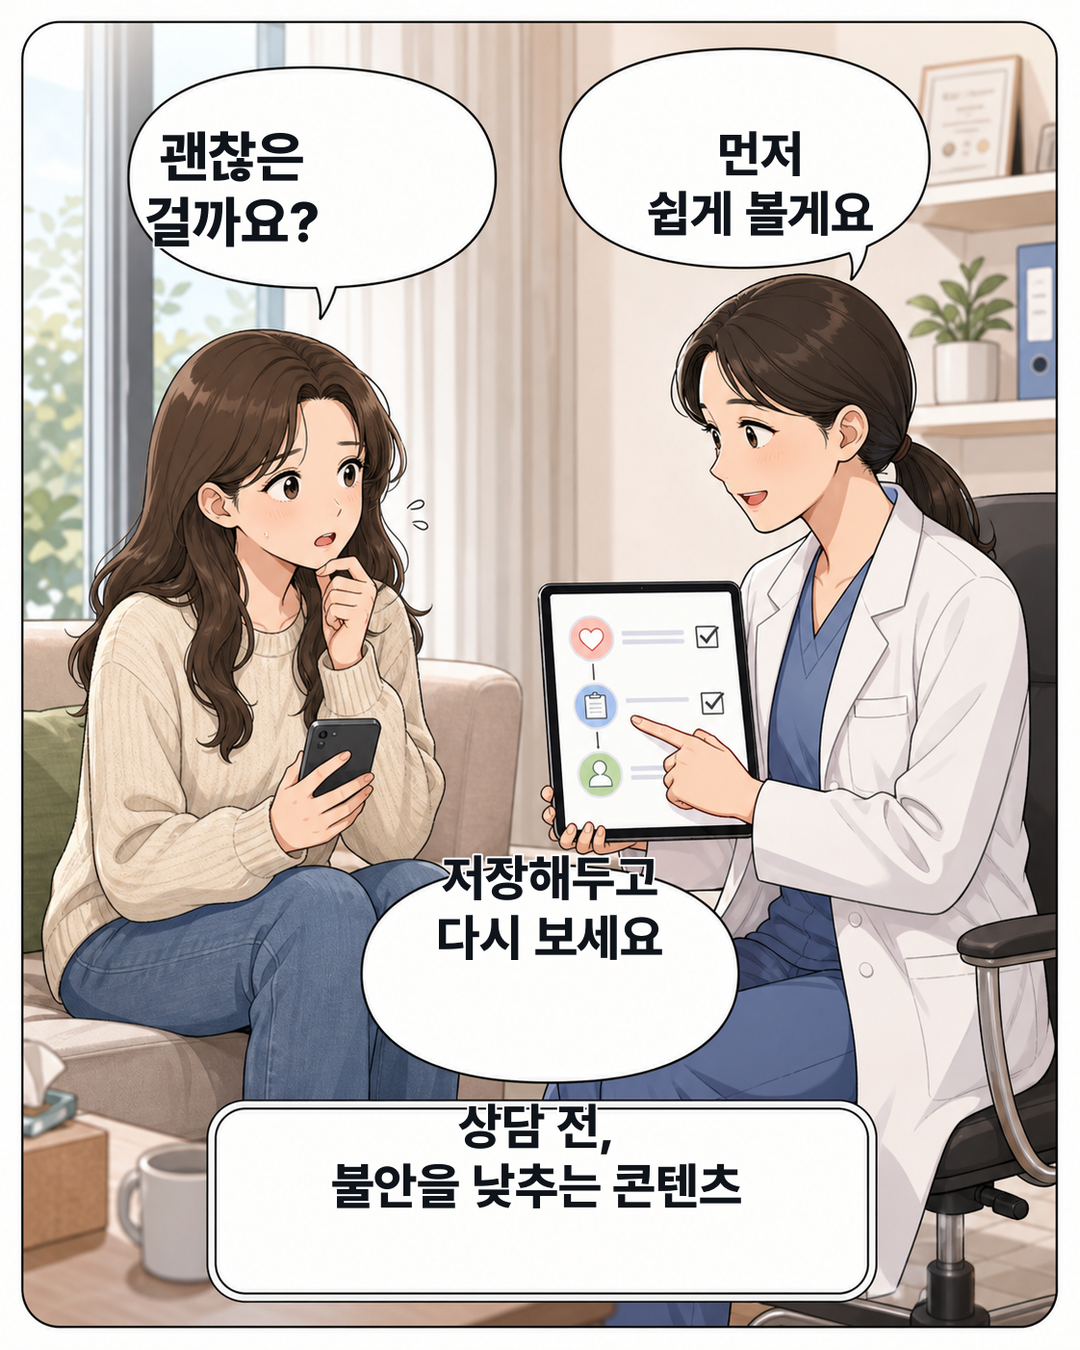
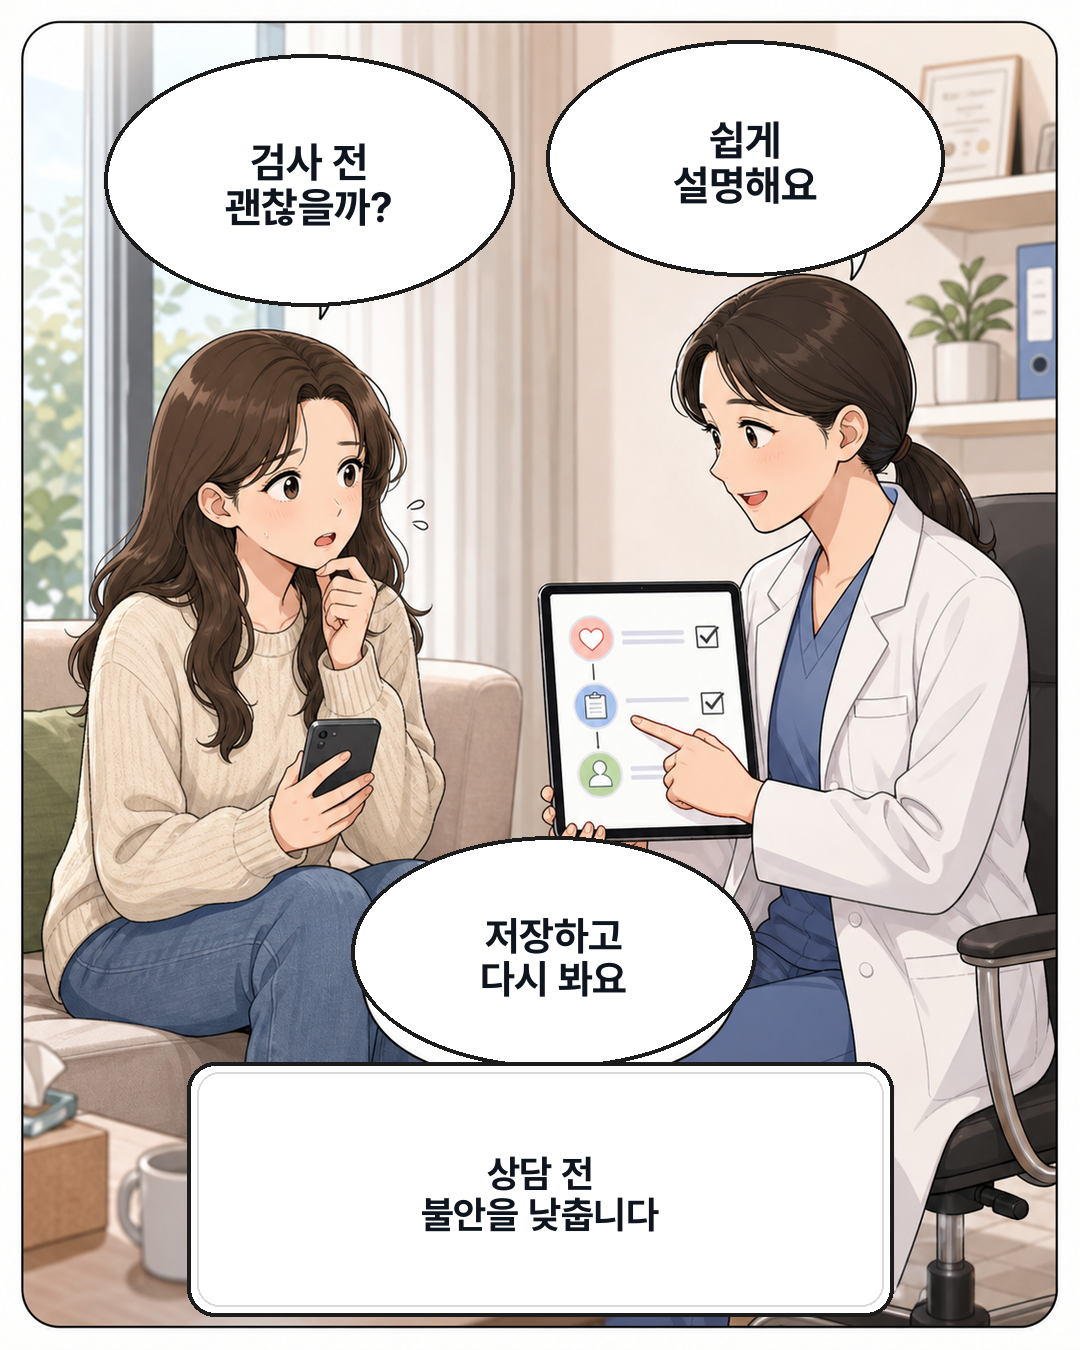
Fix instatoon sample speech bubble text

diff --git a/tools/redraw-instatoon-sample-text.py b/tools/redraw-instatoon-sample-text.py
@@ -1,0 +1,125 @@
+#!/usr/bin/env python3
+from __future__ import annotations
+
+from pathlib import Path
+
+from PIL import Image, ImageDraw, ImageFont
+
+
+ROOT = Path("/Users/null/Documents/tsa-geo-proposal")
+ASSET_DIR = ROOT / "assets/content/instatoon"
+FONT_BOLD = Path("/Users/null/Library/Fonts/Pretendard-Bold.otf")
+FONT_SEMIBOLD = Path("/Users/null/Library/Fonts/Pretendard-SemiBold.otf")
+
+
+def font(size: int, *, semibold: bool = False) -> ImageFont.FreeTypeFont:
+    path = FONT_SEMIBOLD if semibold else FONT_BOLD
+    return ImageFont.truetype(str(path), size=size)
+
+
+def text_box(draw: ImageDraw.ImageDraw, lines: list[str], max_width: int, max_height: int, start_size: int, *, min_size: int = 24) -> tuple[ImageFont.FreeTypeFont, int, int]:
+    size = start_size
+    while size >= min_size:
+        fnt = font(size)
+        line_gap = int(size * 0.18)
+        bboxes = [draw.textbbox((0, 0), line, font=fnt, stroke_width=0) for line in lines]
+        widths = [bbox[2] - bbox[0] for bbox in bboxes]
+        heights = [bbox[3] - bbox[1] for bbox in bboxes]
+        total_height = sum(heights) + line_gap * (len(lines) - 1)
+        if max(widths) <= max_width and total_height <= max_height:
+            return fnt, line_gap, total_height
+        size -= 2
+    fnt = font(min_size)
+    return fnt, int(min_size * 0.18), max_height
+
+
+def draw_label(draw: ImageDraw.ImageDraw, box: tuple[int, int, int, int], lines: list[str], size: int, *, fill=(15, 21, 30), stroke_width: int = 0) -> None:
+    x1, y1, x2, y2 = box
+    pad_x = int((x2 - x1) * 0.13)
+    pad_y = int((y2 - y1) * 0.18)
+    fnt, line_gap, total_height = text_box(draw, lines, (x2 - x1) - pad_x * 2, (y2 - y1) - pad_y * 2, size)
+    y = y1 + ((y2 - y1) - total_height) / 2 - int(size * 0.03)
+    for line in lines:
+        bbox = draw.textbbox((0, 0), line, font=fnt, stroke_width=stroke_width)
+        width = bbox[2] - bbox[0]
+        height = bbox[3] - bbox[1]
+        x = x1 + ((x2 - x1) - width) / 2
+        draw.text((x, y), line, font=fnt, fill=fill, stroke_width=stroke_width, stroke_fill="white")
+        y += height + line_gap
+
+
+def ellipse(draw: ImageDraw.ImageDraw, box: tuple[int, int, int, int], lines: list[str], size: int) -> None:
+    box = (box[0] - 14, box[1] - 14, box[2] + 14, box[3] + 14)
+    draw.ellipse(box, fill=(255, 255, 255), outline=(28, 28, 28), width=4)
+    draw_label(draw, box, lines, size)
+
+
+def rounded(draw: ImageDraw.ImageDraw, box: tuple[int, int, int, int], lines: list[str], size: int) -> None:
+    box = (box[0] - 18, box[1] - 26, box[2] + 18, box[3] + 18)
+    draw.rounded_rectangle(box, radius=28, fill=(255, 255, 255), outline=(28, 28, 28), width=4)
+    inner = (box[0] + 10, box[1] + 10, box[2] - 10, box[3] - 10)
+    draw.rounded_rectangle(inner, radius=22, outline=(218, 218, 218), width=2)
+    draw_label(draw, box, lines, size)
+
+
+def save(path: Path, bubbles: list[tuple[str, tuple[int, int, int, int], list[str], int]]) -> None:
+    image = Image.open(path).convert("RGB")
+    draw = ImageDraw.Draw(image)
+    for kind, box, lines, size in bubbles:
+        if kind == "ellipse":
+            ellipse(draw, box, lines, size)
+        elif kind == "rounded":
+            rounded(draw, box, lines, size)
+        else:
+            raise ValueError(kind)
+    image.save(path, optimize=True, quality=95)
+
+
+def main() -> None:
+    save(
+        ASSET_DIR / "sample-clinic-care.png",
+        [
+            ("ellipse", (118, 68, 500, 292), ["검사 전", "괜찮을까?"], 42),
+            ("ellipse", (560, 54, 930, 262), ["쉽게", "설명해요"], 42),
+            ("ellipse", (365, 850, 742, 1054), ["저장하고", "다시 봐요"], 40),
+            ("rounded", (205, 1088, 875, 1298), ["상담 전", "불안을 낮춥니다"], 38),
+        ],
+    )
+    save(
+        ASSET_DIR / "sample-vet-care.png",
+        [
+            ("ellipse", (82, 78, 508, 302), ["밥을", "안 먹어요"], 40),
+            ("ellipse", (650, 100, 1050, 318), ["응급일까요?"], 40),
+            ("ellipse", (480, 590, 680, 724), ["체크", "기준"], 24),
+            ("rounded", (82, 1086, 998, 1290), ["보호자가 먼저 찾는", "기준을 보여줍니다"], 36),
+        ],
+    )
+    save(
+        ASSET_DIR / "sample-restaurant-story.png",
+        [
+            ("ellipse", (22, 38, 420, 280), ["오늘", "어디 갈까?"], 40),
+            ("ellipse", (690, 42, 1070, 280), ["왜", "유명하지?"], 40),
+            ("rounded", (58, 1068, 650, 1278), ["메뉴 사진을", "방문 이유로"], 40),
+        ],
+    )
+    save(
+        ASSET_DIR / "sample-professional-trust.png",
+        [
+            ("ellipse", (58, 104, 320, 295), ["계약서가", "불안해요"], 31),
+            ("ellipse", (434, 48, 875, 318), ["핵심만", "정리해요"], 42),
+            ("ellipse", (655, 770, 1070, 1045), ["상담 전에", "먼저 이해"], 36),
+            ("rounded", (112, 1088, 970, 1298), ["어려운 상담을", "사례로 낮춥니다"], 36),
+        ],
+    )
+    save(
+        ASSET_DIR / "sample-education-parent.png",
+        [
+            ("ellipse", (82, 92, 500, 335), ["우리 아이", "괜찮을까요?"], 39),
+            ("ellipse", (636, 88, 1025, 340), ["수준부터", "맞춰봐요"], 39),
+            ("rounded", (120, 1088, 960, 1298), ["학부모 고민을", "장면으로 보여줍니다"], 36),
+        ],
+    )
+
+
+if __name__ == "__main__":
+    main()
